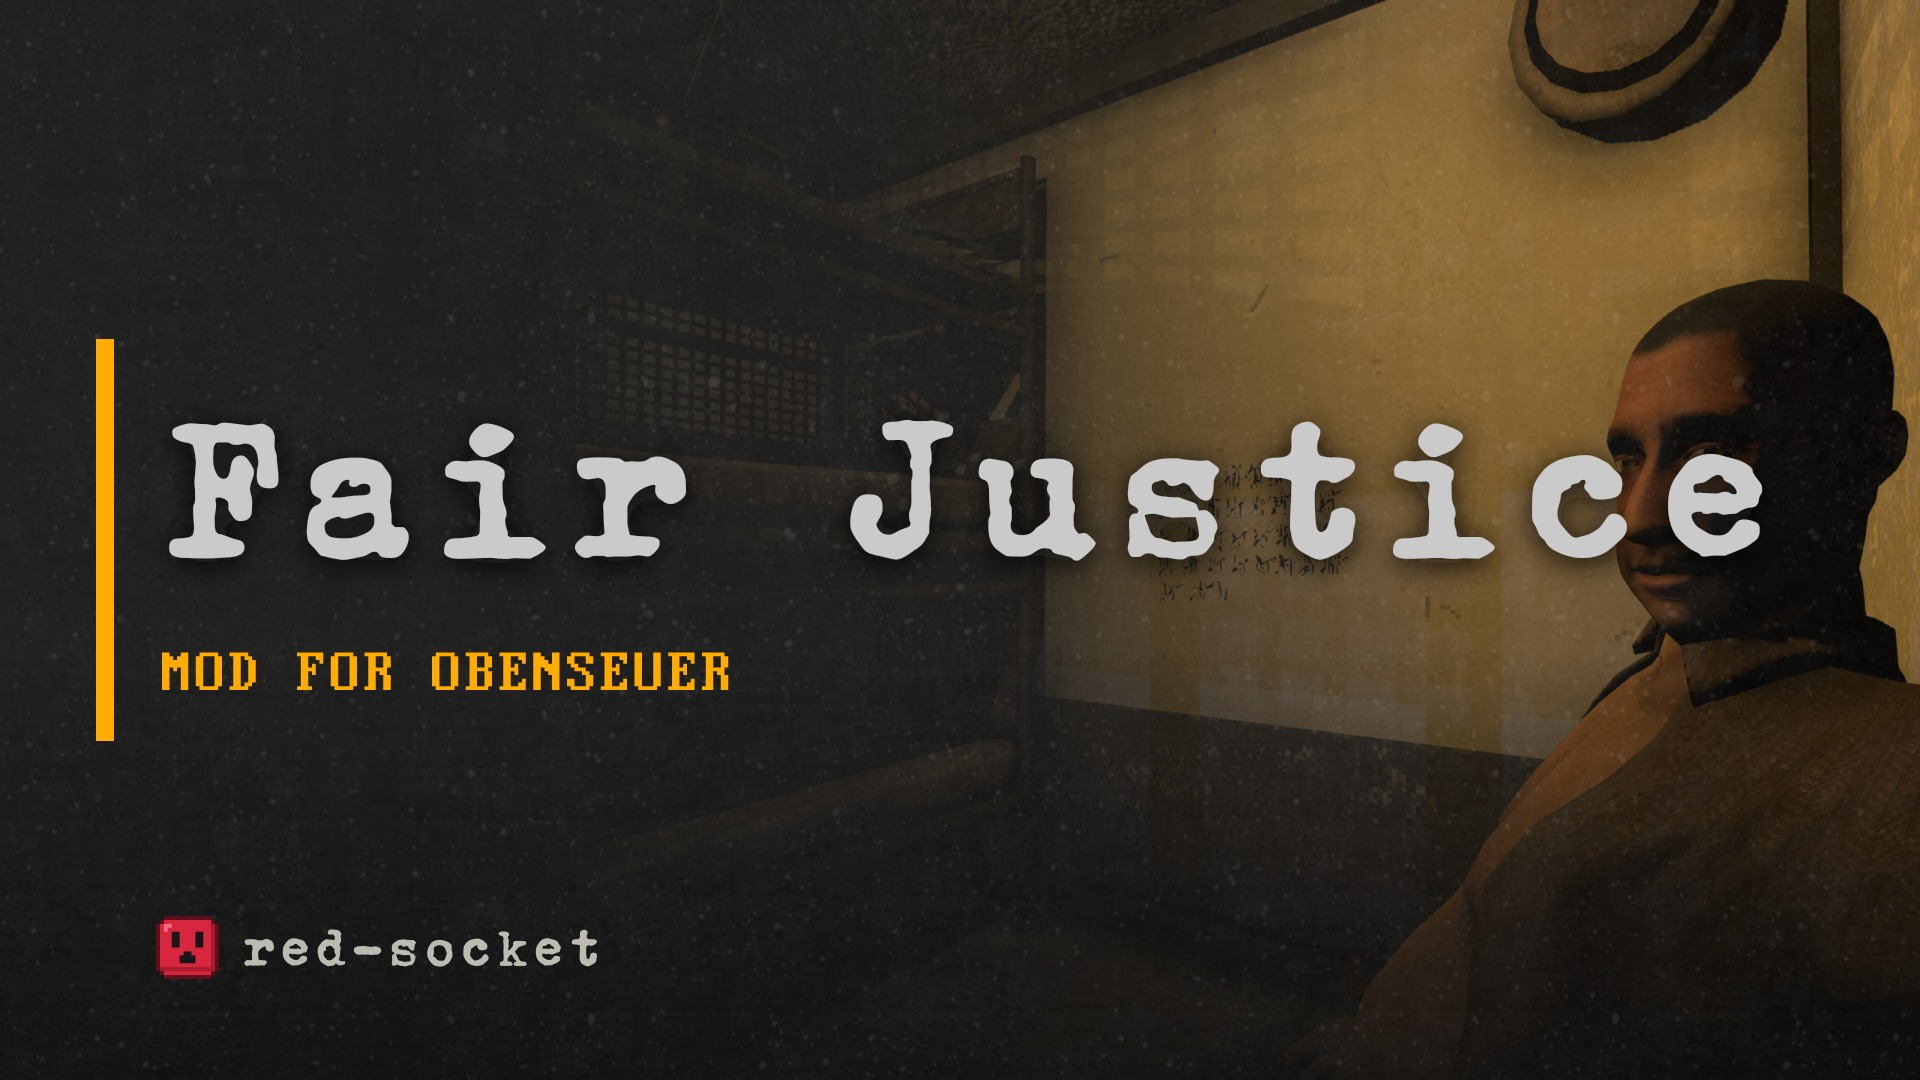
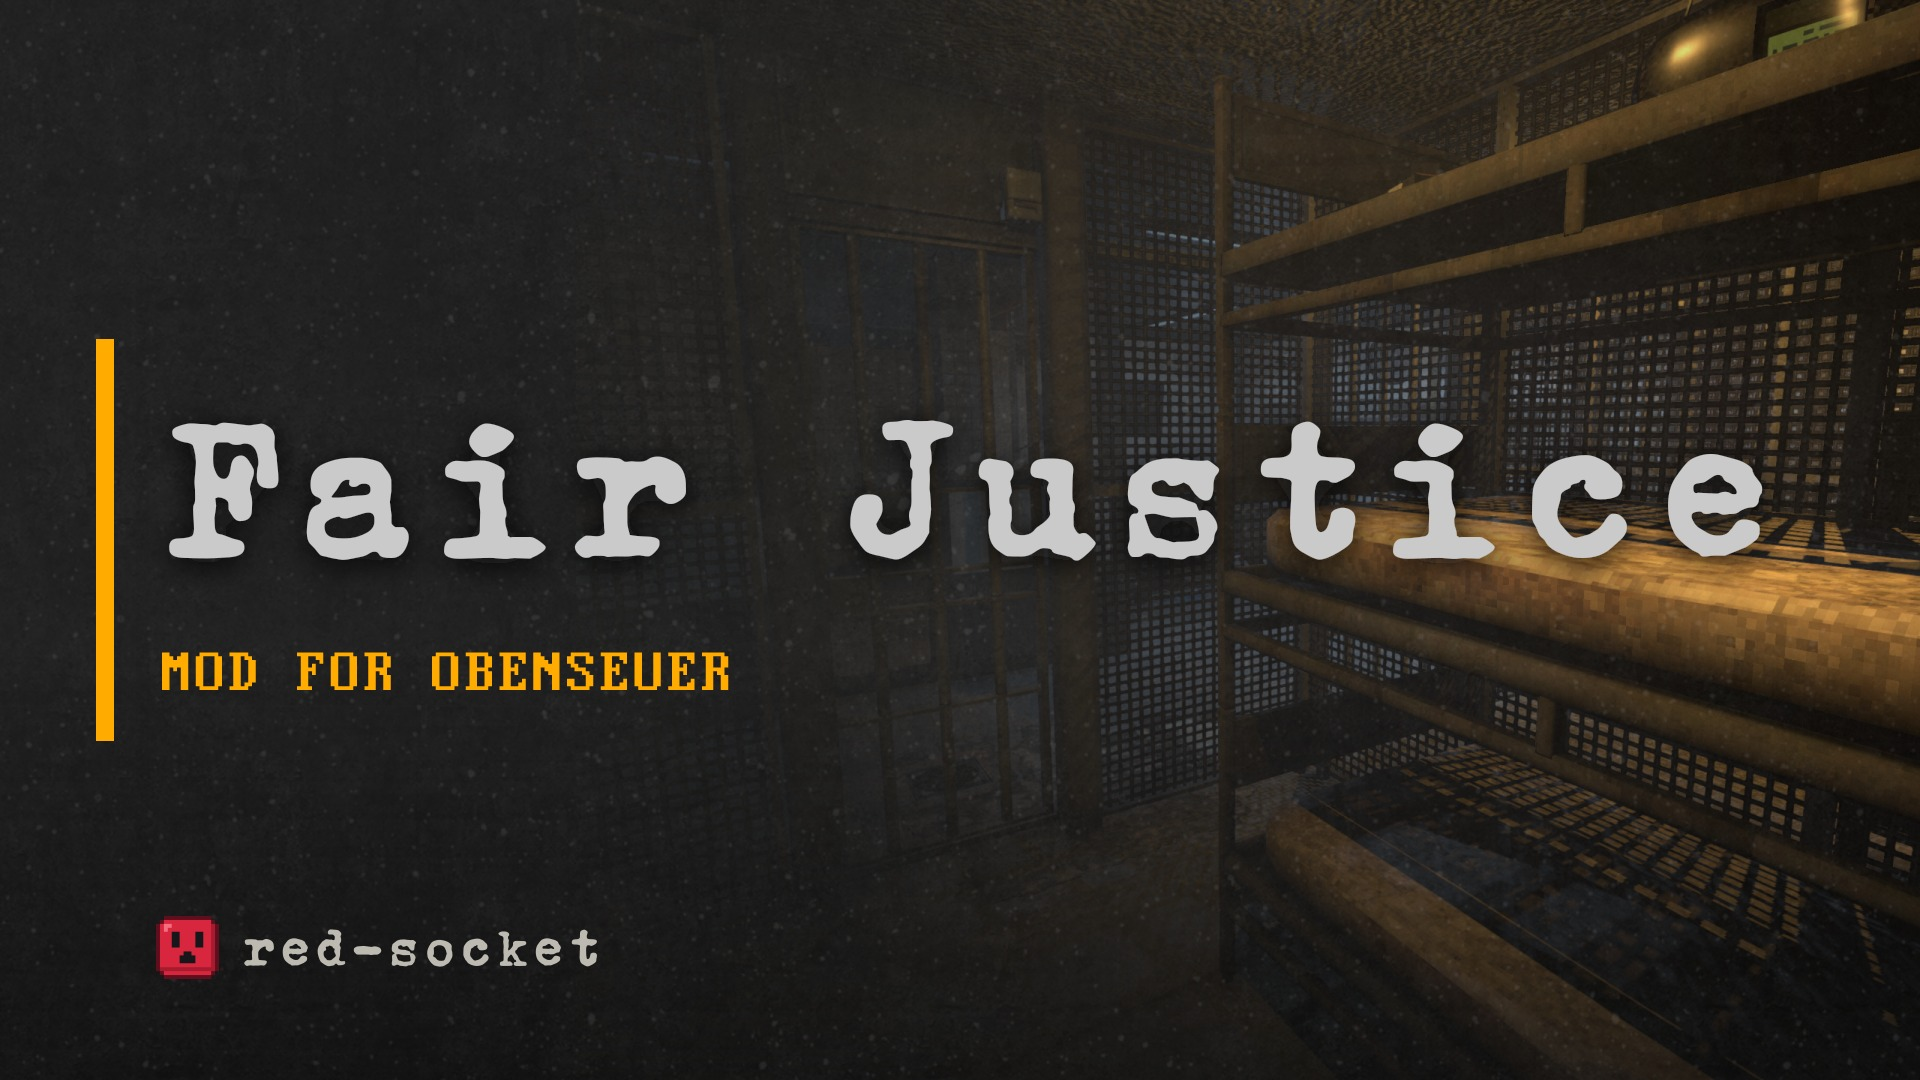
docs(FairJustice): use the bunks and cell door shot as the key shot

Changed region(s): [[0.5, 0.0, 1.0, 0.8861], [0.6562, 0.7639, 0.875, 0.9778]]

diff --git a/mods/FairJustice/art/NOTES.md b/mods/FairJustice/art/NOTES.md
@@ -19,7 +19,7 @@ Tagline: "Crime still doesn't pay, but you only pay for it once." Key shot (head
 
 | File | Derived from |
 |---|---|
-| `header.jpg`, `thumbnail.jpg` | `fj-key.png`, copy of `Screenshot From 2026-11-16 03-15-23.png`; Bazaar jail cell, the cellmate looking at the camera, HUD hidden |
+| `header.jpg`, `thumbnail.jpg` | `fj-key.png`, copy of `Screenshot From 2026-11-16 03-15-07.png`; Bazaar jail cell, the bunks and the cell door, HUD hidden |
 | `gallery-01.jpg` | `fj-panel.png`, copy of `Screenshot From 2026-11-16 03-35-46.png`; Bazaar cell, Other 29 min and Theft 4 min |
 | `gallery-02.jpg` | `fj-bags.png`, copy of `Screenshot From 2026-11-15 21-53-17.png`; the meatball plate being moved is stolen (confirmed by the user 2026-11-16), so the caption holds |
 | all | house-style kit templates (`art/templates/`), fonts and textures listed in `art/SOURCES.md` |
